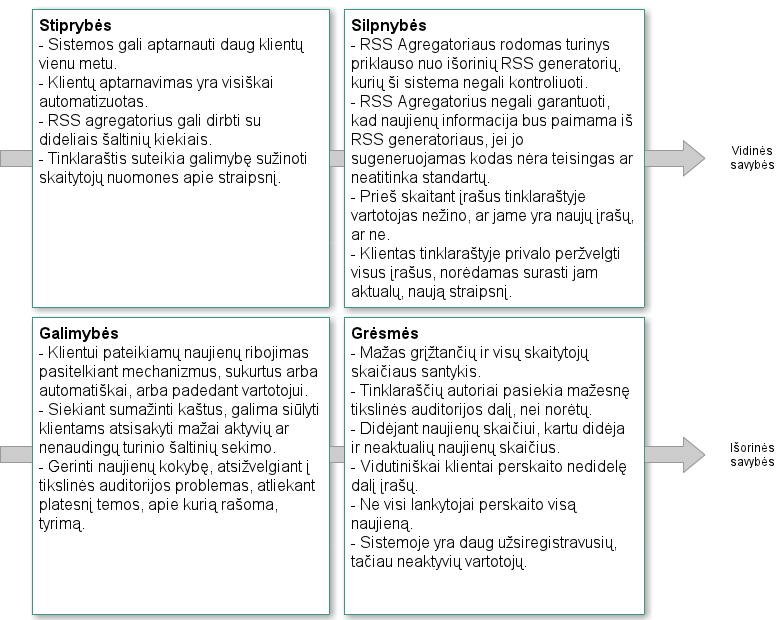
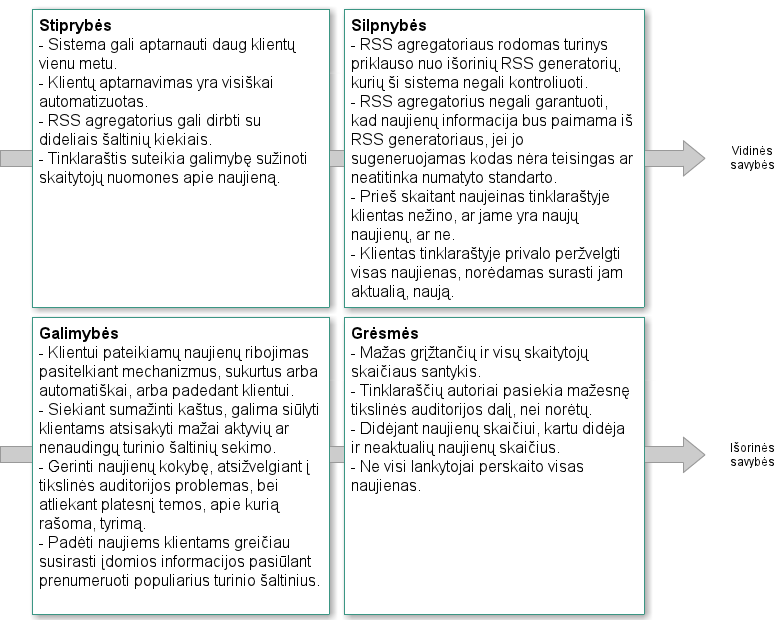
Įvairūs pakeitimai

diff --git a/projektas/2.1_isorine_analize.md b/projektas/2.1_isorine_analize.md
@@ -44,13 +44,13 @@
             \textbullet \raggedright Kuo mažiau neaktyvių vartotojų. \par
         \end{tabular} &
         \begin{tabular}[t]{p{3cm}}
-            \textbullet \raggedright Kasdien kliento gaunamų įrašų kiekis neviršytų 30 vienetų. \par
-            \textbullet \raggedright Kasdien klientas gautų ne mažiau nei 5 įrašus. \par
+            \textbullet \raggedright Kasdien kliento gaunamų naujienų kiekis neviršytų 30 vienetų. \par
+            \textbullet \raggedright Kasdien klientas gautų ne mažiau nei 5 naujienas. \par
             \textbullet \raggedright Nėra neaktyvių turinio šaltinių. \par
             \textbullet \raggedright Grįžtančių ir visų lankytojų skaičiaus santykis ne mažesnis nei 40\%. \par
             \textbullet \raggedright Žodžių skaičiaus naujienoje ir naujieną perskaičiusių skaitytojų skaičiaus santykis yra ne didesnis nei 100\%. \par
             \textbullet \raggedright Vidutiniškai tinklaraščio autorius pasiekia bent 40\% tikslinės auditorijos. \par
-            \textbullet \raggedright Sistemoje neaktyvių vartotojų skaičius ne didesnis nei 10\%. \par
+            \textbullet \raggedright Neaktyvių vartotojų skaičius sistemoje ne didesnis nei 10\%. \par
          \end{tabular} &
         \begin{tabular}[t]{p{3cm}}
             \textbullet \raggedright Vidutinis klientas per dieną vidutiniškai gauna daugiau nei 50 naujienų. \par
@@ -91,12 +91,10 @@
             \textbullet \raggedright Tvarkingai vaizduojamos naujienos. \par
         \end{tabular} &
         \begin{tabular}[t]{p{3cm}}
-            \textbullet \raggedright Aktyvių ir visų registruotų klientų skaičiaus santykis bent 60\%. \par
-            \textbullet \raggedright Sistema būtų pasiekiama ne mažiau nei 95\% laiko. \par
+            \textbullet \raggedright Sistema būtų pasiekiama ne mažiau nei 97\% laiko. \par
             \textbullet \raggedright Nėra deformuojamas naujienos tekstas. \par
         \end{tabular} &
         \begin{tabular}[t]{p{3cm}}
-            \textbullet \raggedright Aktyvių klientų ir registruotų klientų skaičiaus santykis yra 80\%. \par
             \textbullet \raggedright Sistema pasiekiama mažiau nei 99.7\% laiko.  \par
             \textbullet \raggedright Naujienos vaizduojamos tvarkingai.  \par
         \end{tabular} \\
@@ -117,14 +115,14 @@
             \textbullet \raggedright Tinklaraščio autorius suteikia vertę skaitytojams. \par
         \end{tabular} &
         \begin{tabular}[t]{p{3cm}}
-            \textbullet \raggedright Perskaitytų įrašų kiekio santykis su visų įrašų kiekiu ne mažesnis nei 60\%. \par
+            \textbullet \raggedright Perskaitytų naujienų kiekio santykis su visų naujienų kiekiu ne mažesnis nei 70\%. \par
             \textbullet \raggedright Vidutinis skaitytojų tinklaraštyje praleidžiamas laikas yra ne mažesnis nei 1 minutė. \par
             \textbullet \raggedright 0.1\% visų naujieną perskaičiusių skaitytojų pakomentuoja naujieną tinklaraštyje. \par
             \textbullet \raggedright 30\% visų naujieną perskaičiusių skaitytojų tinklaraštyje dar perskaito bent vieną kitą naujieną. \par
             \textbullet \raggedright Už kiekvieną naujieną autorius sulaukia bent 1 padėkos iš skaitytojo. \par
         \end{tabular} &
         \begin{tabular}[t]{p{3cm}}
-            \textbullet \raggedright Vidutiniškai klientai perskaito 30-60\% įrašų. \par
+            \textbullet \raggedright Vidutiniškai klientai perskaito 30-60\% naujienų. \par
             \textbullet \raggedright Vidutiniškai skaitytojai praleidžia 59 sekundes tinklaraštyje. \par
             \textbullet \raggedright 0.18\% lankytojų pakomentuoja skaitytą naujieną. \par
             \textbullet \raggedright Vidutiniškai 11\% naujieną perskaičiusių skaitytojų tinklaraštyje perskaito dar bent vieną kitą naujieną. \par
@@ -149,14 +147,13 @@
 - Mažas grįžtančių ir visų skaitytojų skaičiaus santykis.
 - Tinklaraščių autoriai pasiekia mažesnę tikslinės auditorijos dalį, nei norėtų.
 - Didėjant naujienų skaičiui, kartu didėja ir neaktualių naujienų skaičius.
-- Vidutiniškai klientai perskaito nedidelę dalį įrašų.
-- Ne visi lankytojai perskaito visą naujieną.
+- Ne visi lankytojai perskaito visas naujienas.
 
 
 ## Galimybės
 
 - Klientui pateikiamų naujienų ribojimas pasitelkiant mechanizmus, sukurtus arba automatiškai, arba padedant klientui.
 - Siekiant sumažinti kaštus, galima siūlyti klientams atsisakyti mažai aktyvių ar nenaudingų turinio šaltinių sekimo.
-- Gerinti naujienų kokybę, atsižvelgiant į tikslinės auditorijos problemas, atliekant platesnį temos, apie kurią rašoma, tyrimą.
+- Gerinti naujienų kokybę, atsižvelgiant į tikslinės auditorijos problemas, bei atliekant platesnį temos, apie kurią rašoma, tyrimą.
 - Padėti naujiems klientams greičiau susirasti įdomios informacijos pasiūlant prenumeruoti populiarius turinio šaltinius.
 

diff --git a/projektas/2.2_vidine_analize.md b/projektas/2.2_vidine_analize.md
@@ -1,6 +1,6 @@
 # Vidinė verslo proceso analizė
 
-Nagrinėjame internetinių įrašų ir naujienų skaitymo būdus. Pagrindiniai iš jų yra tiesioginis skaitymas įrašo šaltinyje ir skaitymas naudojant RSS agregatorių. Atlikę išorinę dalykinės srities analizę, nustatėme, kad naudojimasis ir vienu, ir kitu būdu yra problematiški. Didžiausios problemos yra susijusios su per dideliu pateikiamos informacijos kiekiu bei aktualumu klientui.
+Nagrinėjame internetinių naujienų skaitymo būdus. Pagrindiniai iš jų yra tiesioginis skaitymas naujienos šaltinyje ir skaitymas naudojant RSS agregatorių. Atlikę išorinę dalykinės srities analizę, nustatėme, kad naudojimasis ir vienu, ir kitu būdu yra problematiški. Didžiausios problemos yra susijusios su per dideliu pateikiamos informacijos kiekiu bei aktualumu klientui.
 
 ## Dalykinės srities statinė struktūra
 
@@ -103,7 +103,7 @@ Nagrinėjame internetinių įrašų ir naujienų skaitymo būdus. Pagrindiniai i
     \begin{tabular}{|p{3cm}|p{4cm}|p{4cm}|p{4cm}|}
         \hline
         \textbf{Pirminis agentas} & \textbf{Prieš sąlyga} & \textbf{Po sąlyga} & \textbf{Pasikartojimo dažnis} \\ \hline
-        Klientas. & Klientas atsidaręs tinklaraštį interneto naršyklėje. & Klientas surado norimą įrašą. & Vidutiniškai 2 kartus per mėnesį. \\
+        Klientas. & Klientas atsidaręs tinklaraštį interneto naršyklėje. & Klientas surado norimą naujieną. & Vidutiniškai 2 kartus per mėnesį. \\
         \hline
     \end{tabular}
 \end{table}
@@ -280,11 +280,11 @@ RSS agregatorius pastoviais intervalais tikrina ar yra naujų naujienų kliento 
 - Sistema gali aptarnauti daug klientų vienu metu.
 - Klientų aptarnavimas yra visiškai automatizuotas.
 - RSS agregatorius gali dirbti su dideliais šaltinių kiekiais.
-- Tinklaraštis suteikia galimybę sužinoti skaitytojų nuomones apie straipsnį.
+- Tinklaraštis suteikia galimybę sužinoti skaitytojų nuomones apie naujieną.
 
 ## Silpnybės
 
 - RSS agregatoriaus rodomas turinys priklauso nuo išorinių RSS generatorių, kurių ši sistema negali kontroliuoti.
-- RSS agregatorius negali garantuoti, kad naujienų informacija bus paimama iš RSS generatoriaus, jei jo sugeneruojamas kodas nėra teisingas ar neatitinka Atom standarto.
-- Prieš skaitant įrašus tinklaraštyje klientas nežino, ar jame yra naujų įrašų, ar ne.
-- Klientas tinklaraštyje privalo peržvelgti visus įrašus, norėdamas surasti jam aktualų, naują straipsnį.
+- RSS agregatorius negali garantuoti, kad naujienų informacija bus paimama iš RSS generatoriaus, jei jo sugeneruojamas kodas nėra teisingas ar neatitinka numatyto standarto.
+- Prieš skaitant naujeinas tinklaraštyje klientas nežino, ar jame yra naujų naujienų, ar ne.
+- Klientas tinklaraštyje privalo peržvelgti visas naujienas, norėdamas surasti jam aktualią, naują.

diff --git a/projektas/2.5_sistemos_naudojimo_scenarijus.md b/projektas/2.5_sistemos_naudojimo_scenarijus.md
@@ -119,7 +119,7 @@
 \end{figure}
 
 \FloatBarrier
-RSS sistemos pagalba galima automatiškai sekti naujų straipsnių norimose rubrikose publikavimą neužeinant į interneto puslapius ar kitus įvairius interneto informacijos šaltinius bei surinkti ir susisteminti periodiškai atnaujinamą naujausią įvairiapusišką informaciją. Užsiregistravęs ir prisijungęs vartotojas gali pridėti ir ištrinti savo norimus RSS šaltinius, skaityti jų pateikiamas naujienas. Naujienas, kurios sudomina klientą, galima pažymėti kaip pamėgtąsias ir vėliau lengviau rasti naudojantis paieška. Kad klientas gautų kuo mažiau neaktualaus turinio, klientas gali nusistatyti savo privačius filtrus, kuriais vadovaujantis, RSS agregatorius atrinktų aktualiausią klientui turinį. Naujas klientas, dar tik pradedantis savo pažintį su RSS sistemos teikiamomis naudomis gali išsikviesti sistemos pažinimo vedlį, ar peržiūrėti populiariausius prenumeruojamus šaltinius. 
+RSS sistemos pagalba galima automatiškai sekti naujų naujienų norimose rubrikose publikavimą neužeinant į interneto puslapius ar kitus įvairius interneto informacijos šaltinius bei surinkti ir susisteminti periodiškai atnaujinamą naujausią įvairiapusišką informaciją. Užsiregistravęs ir prisijungęs vartotojas gali pridėti ir ištrinti savo norimus RSS šaltinius, skaityti jų pateikiamas naujienas. Naujienas, kurios sudomina klientą, galima pažymėti kaip pamėgtąsias ir vėliau lengviau rasti naudojantis paieška. Kad klientas gautų kuo mažiau neaktualaus turinio, klientas gali nusistatyti savo privačius filtrus, kuriais vadovaujantis, RSS agregatorius atrinktų aktualiausią klientui turinį. Naujas klientas, dar tik pradedantis savo pažintį su RSS sistemos teikiamomis naudomis gali išsikviesti sistemos pažinimo vedlį, ar peržiūrėti populiariausius prenumeruojamus šaltinius. 
 
 \newpage
 

diff --git a/projektas/x_terminu_zodynelis.md b/projektas/x_terminu_zodynelis.md
@@ -15,4 +15,4 @@
 **RSS procesorius:** RSS Skaityklės dalis, su kuria klientas tiesiogiai nesąveikauja. Nuskaito naujienų sąrašus iš kiekvieno RSS šaltinio bei agreguoja naujienų informaciją.  
 **Skaityklė:** RSS agregatoriaus dalis, su kuria sąveikauja klientas. Klientui parodo RSS procesoriaus agreguotas naujienas bei leidžia valdyti RSS procesoriaus naudojamus RSS šaltinius.  
 **Tikslinė auditorija:** Tam tikra tinklaraštį skaitančios auditorijos dalis, kuriai autoriaus parašyta naujiena yra aktualiausia.  
-**Tinklaraštis:** Internetinis tinklalapis talpinantis konkretaus autoriaus ar autorių grupės straipsnius tam tikromis temomis.  
+**Tinklaraštis:** Internetinis tinklalapis talpinantis konkretaus autoriaus ar autorių grupės naujienas tam tikromis temomis.  

diff --git a/projektas/2.3_analizes_isvados.md b/projektas/2.3_analizes_isvados.md
@@ -2,7 +2,7 @@
 
 \begin{figure}[!ht]
     \centering
-    \includegraphics[width=0.98\textwidth]{projektas/img/swot.png}
+    \includegraphics[width=1.00\textwidth]{projektas/img/swot.png}
     \caption{SWOT diagrama}
 \end{figure}
 
